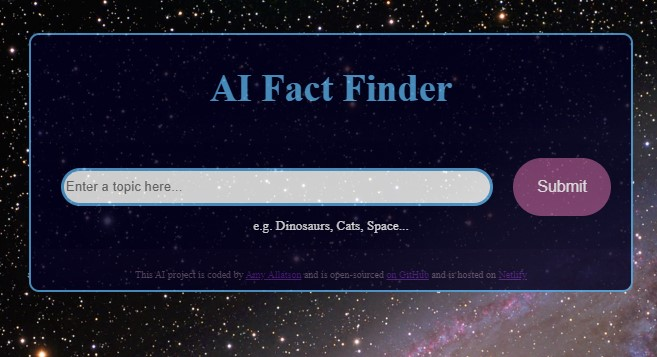
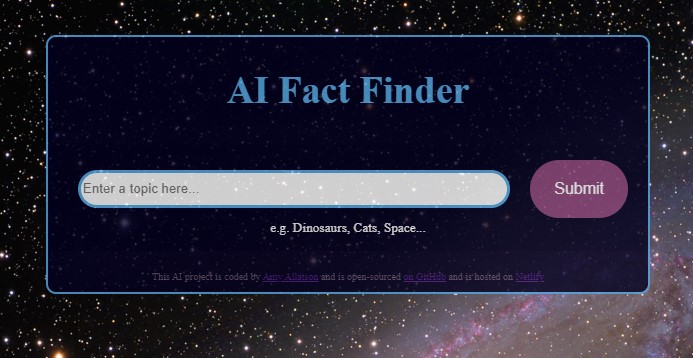
removed grid

diff --git a/index.html b/index.html
@@ -91,28 +91,6 @@
       </div>
     </div>
 
-    <div class="container mb-5">
-      <div class="row">
-        <div class="col-sm-2 border">
-          <img src="images/logo.png" class="img-fluid" />
-        </div>
-        <div class="col-sm-2 border">
-          <img src="images/logo.png" class="img-fluid" />
-        </div>
-        <div class="col-sm-2 border">
-          <img src="images/logo.png" class="img-fluid" />
-        </div>
-        <div class="col-sm-2 border">
-          <img src="images/logo.png" class="img-fluid" />
-        </div>
-        <div class="col-sm-2 border">
-          <img src="images/logo.png" class="img-fluid" />
-        </div>
-        <div class="col-sm-2 border">
-          <img src="images/logo.png" class="img-fluid" />
-        </div>
-      </div>
-    </div>
     <footer>
       <div class="contact-container">
         <div>

diff --git a/src/style.css b/src/style.css
@@ -32,6 +32,7 @@ body {
   padding: 0 20px;
   margin: 60px auto;
   max-width: 800px;
+  margin-top: 100px;
 }
 
 h1,
@@ -106,6 +107,11 @@ h3 {
   margin-top: 20px;
 }
 
+.homepage-link {
+  color: var(--primary-color);
+  text-align: center;
+  display: block;
+}
 a {
   color: var(--link-color);
   text-decoration: none;
@@ -126,6 +132,7 @@ p {
   font-size: 18px;
   line-height: 1.5;
   text-align: center;
+  font-size: 18px;
 }
 
 .about-paragraphs {
